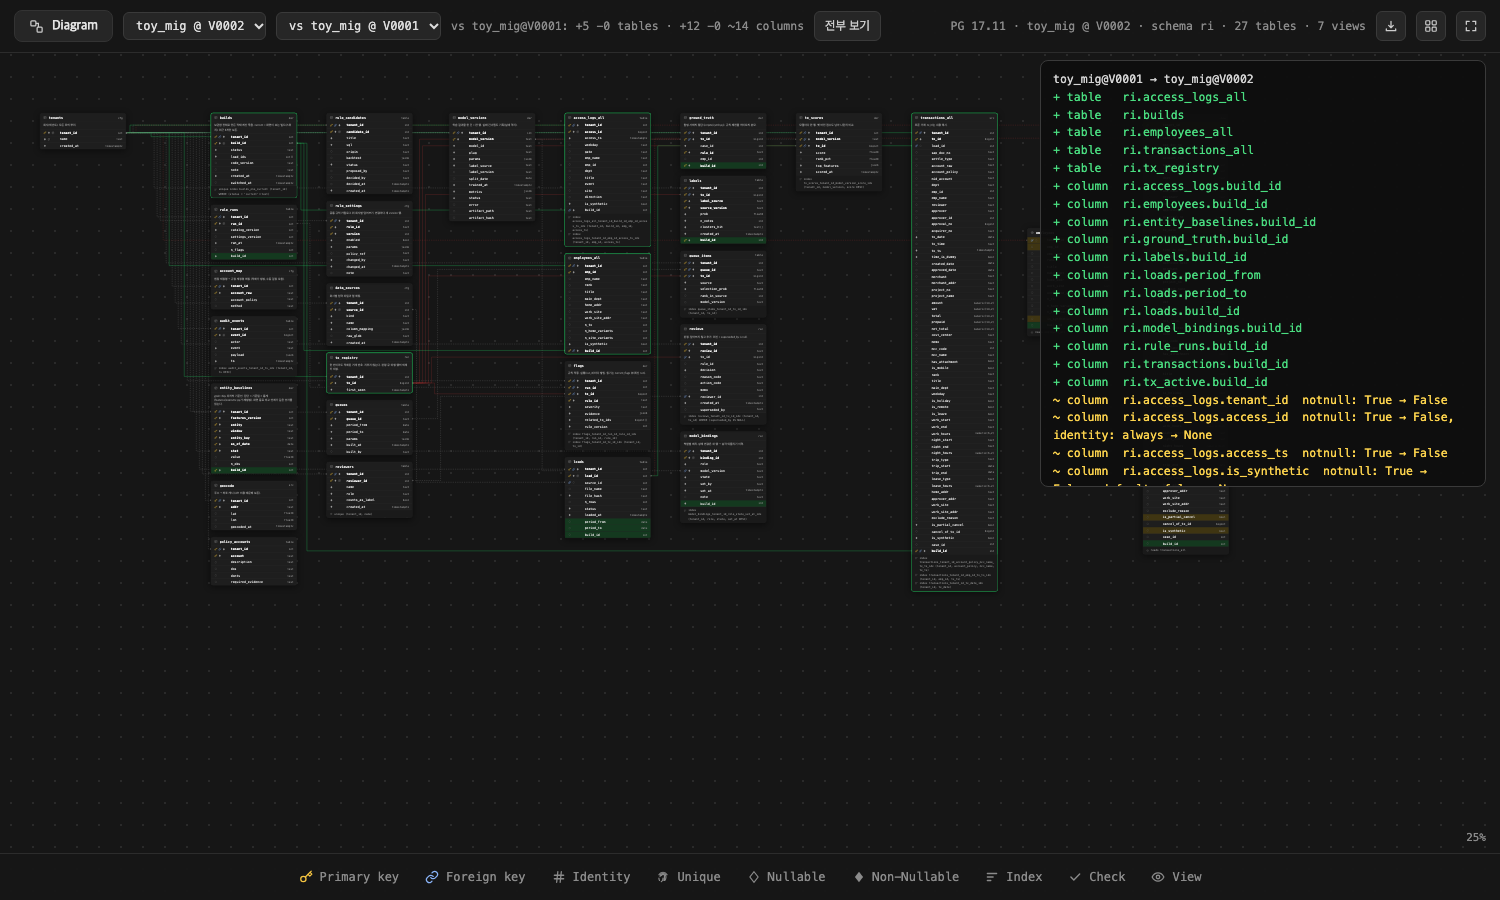
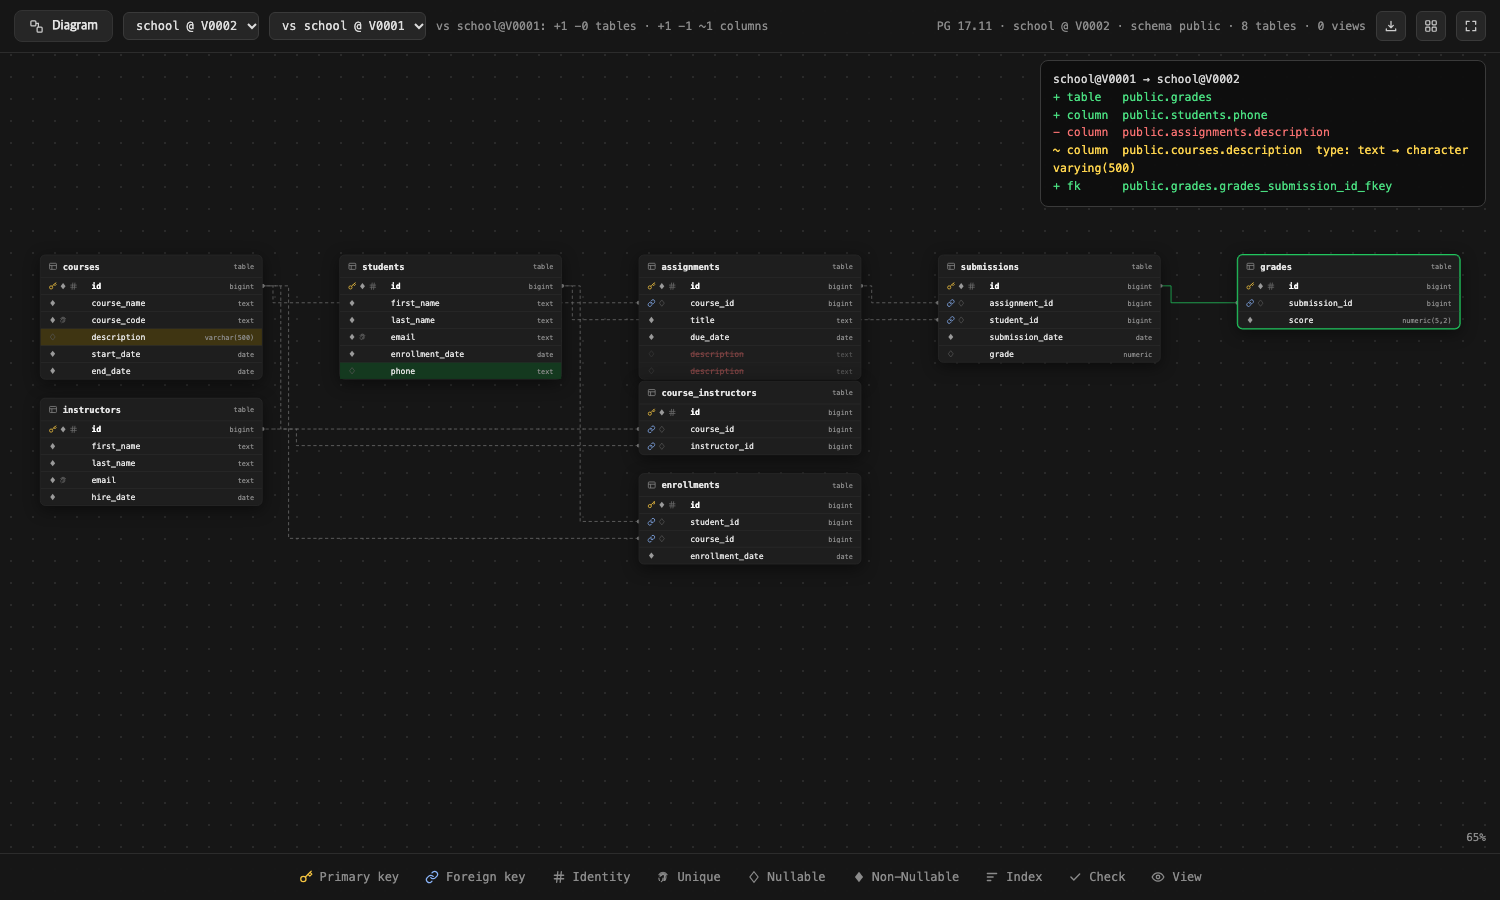
Open source: MIT LICENSE file, sample-only screenshot and diff example in README

diff --git a/README.md b/README.md
@@ -49,9 +49,11 @@ erdview serve --source toy=postgresql://…/app --source spring=db/migration --p
 ```
 $ erdview diff db/migration@V0001 db/migration@V0002 --pg postgresql://postgres@localhost/postgres
 db/migration@V0001 → db/migration@V0002
-+ table   ri.builds
-+ column  ri.transactions_all.merchant_region
-~ column  ri.attendance_all.weekday  notnull: True → False
++ table   public.grades
++ column  public.students.phone
+- column  public.assignments.description
+~ column  public.courses.description  type: text → character varying(500)
++ fk      public.grades.grades_submission_id_fkey
 ```
 
 ![compare](docs/compare.png)
@@ -93,4 +95,4 @@ python -m venv .venv && .venv/bin/pip install -e '.[dev]'
 
 `erdview/pg_erd.sql` is the source of truth for the query. After changing it, paste it into the `#erd-sql` block of `erdview/viewer.html`; a test checks they match.
 
-MIT.
+[MIT](LICENSE).
